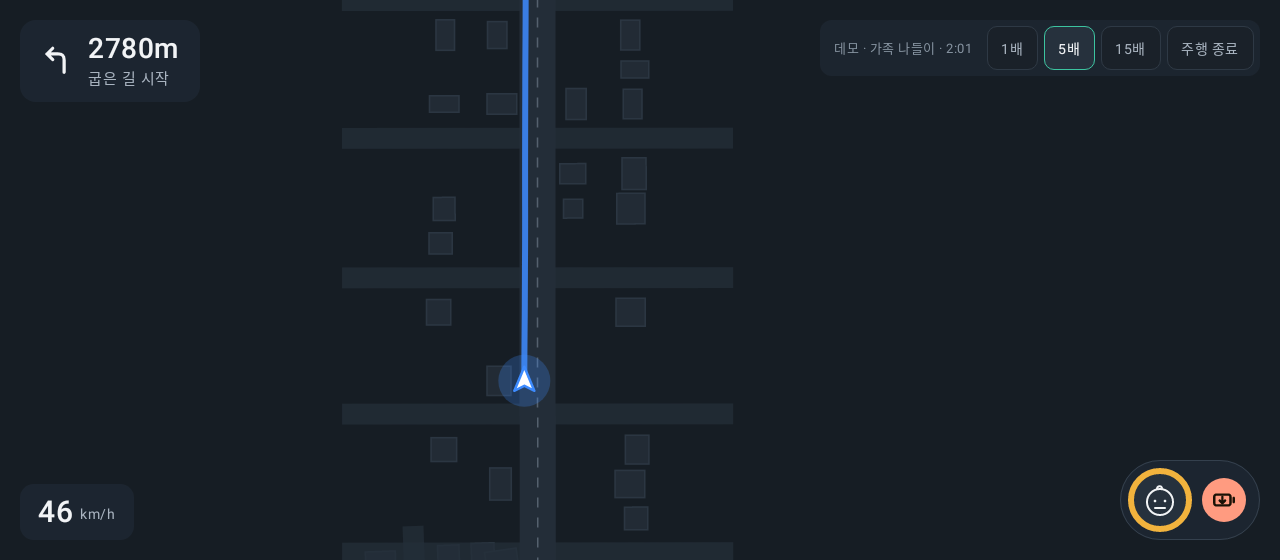
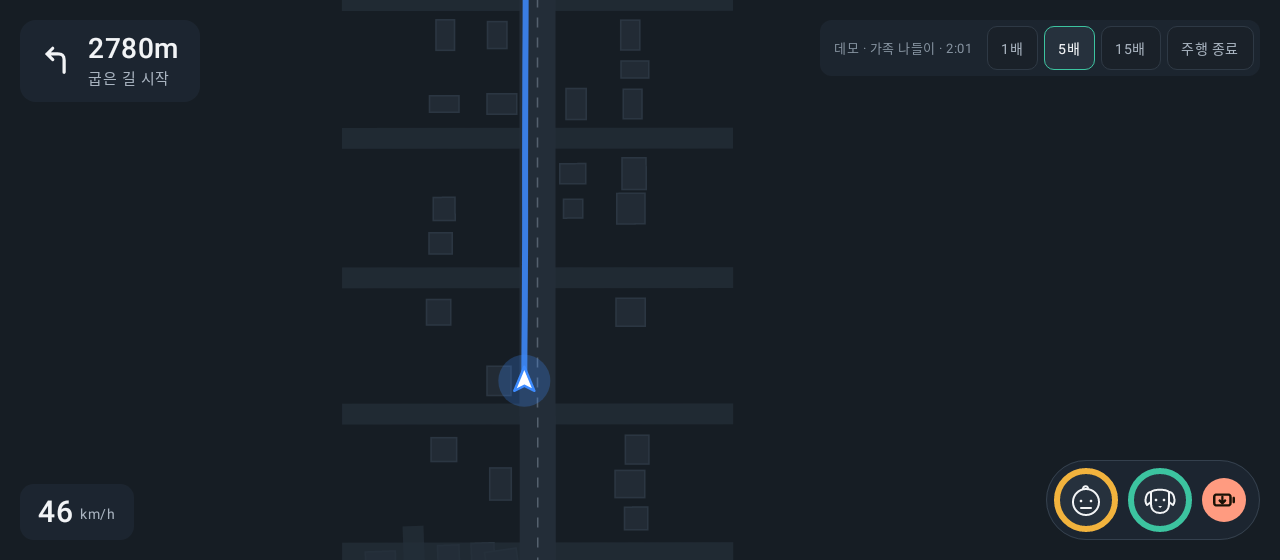
Show every passenger on the driving chip
- Chip lists all riders in selection order, each with its own level colour and face
- Badge, sound and stop card still follow the most uncomfortable rider
- Prototype does the same

Claude-Session: https://claude.ai/code/session_01BbDhi5dqPA6j65TagedgLk

Changed region(s): [[0.8125, 0.8196, 0.9375, 0.9714]]

diff --git a/docs/prototype/index.html b/docs/prototype/index.html
@@ -67,6 +67,9 @@ h1, h2, h3 { text-wrap: balance; }
 .chip.hidden { opacity: 0; transform: translateY(.6em); pointer-events: none; }
 .avatar { width: 4em; height: 4em; border-radius: 50%; border: .32em solid var(--caution); background: #26313D; display: flex; align-items: center; justify-content: center; transition: border-color .4s; }
 .avatar svg { width: 2.5em; height: 2.5em; }
+.avatars { display: flex; gap: .45em; }
+.avatars.many .avatar { width: 3.3em; height: 3.3em; border-width: .28em; }
+.avatars.many .avatar svg { width: 2.05em; height: 2.05em; }
 /* 예측 안내: 주행 중에는 움직이지 않도록 깜빡임 대신 파란 테두리 (Android for Cars SA-1) */
 .chip.pulse { box-shadow: 0 0 0 3px #3D8BFF; }
 .badge { width: 2.75em; height: 2.75em; border-radius: 50%; display: flex; align-items: center; justify-content: center; background: var(--moment); }
@@ -195,7 +198,7 @@ select { background: var(--surface); border: 1px solid var(--line); border-radiu
       <div class="speed"><b id="spd">0</b><span>km/h</span></div>
 
       <div class="chip hidden" id="chip" role="status" aria-live="polite">
-        <div class="avatar" id="avatar"></div>
+        <div class="avatars" id="avatars"></div>
         <div class="badge" id="badge"></div>
       </div>
 
@@ -223,7 +226,7 @@ select { background: var(--surface); border: 1px solid var(--line); border-radiu
         </div>
         <div class="people" id="people"></div>
         <div class="start-row">
-          <span id="selCount">2명 선택됨 · 가장 힘든 동승자 한 명만 운전 화면에 표시돼요</span>
+          <span id="selCount">2명 선택됨 · 운전 화면에 모두 표시돼요</span>
           <button type="button" class="go" id="goBtn">이대로 출발</button>
         </div>
       </div>
@@ -290,7 +293,7 @@ select { background: var(--surface); border: 1px solid var(--line); border-radiu
     <div class="panel">
       <h2>보는 법</h2>
       <ol class="how">
-        <li><b>출발 화면</b>에서 동승자를 고르고 '이대로 출발'을 누르세요. 여러 명이면 가장 힘든 한 명만 표시됩니다.</li>
+        <li><b>출발 화면</b>에서 동승자를 고르고 '이대로 출발'을 누르세요. 여러 명이면 모두의 얼굴이 각자 단계 색으로 표시됩니다.</li>
         <li><b>주행 중</b>에는 오른쪽 아래 아이콘과 원인 배지 1개만 뜹니다. 글자는 없고, 단계가 오를 때만 효과음이 1회 울립니다.</li>
         <li>게이지가 '주의' 이상인데 <b>다음 회전이 300m 안</b>이면, 내비 안내와 아이콘이 미리 강조됩니다(NaviHelper 예측).</li>
         <li><b>정차하면</b> 원인과 한 줄 코칭이 담긴 카드가 뜨고, Gleo가 읽어 줍니다. 정체는 운전자 탓으로 코칭하지 않습니다.</li>
@@ -378,7 +381,7 @@ select { background: var(--surface); border: 1px solid var(--line); border-radiu
   var dist = 0, lastIdx = -1, cardUntil = -1, feedbackNote = "";
   var merged = [];
 
-  /* 선택한 동승자들의 타임라인을 합쳐 '가장 힘든 한 명'을 고른다 (엔진의 대표 동승자 규칙과 동일). */
+  /* 선택한 동승자들의 타임라인을 합친다. 칩에는 전원을 보여주고, 원인 배지·정차 카드는 가장 힘든 한 명 기준(엔진 규칙과 동일). */
   function buildMerged() {
     var keys = TYPES.map(function (x) { return x.k; }).filter(function (k) { return selected[k]; });
     var runs = keys.map(function (k) { return { k: k, r: DATA.scenarios[scenario][k] }; });
@@ -397,7 +400,9 @@ select { background: var(--surface); border: 1px solid var(--line); border-radiu
         if (f[8] && x.k === best.k) cards.push({ msg: f[8], cause: f[9] });
       });
       var sound = runs.some(function (x) { return x.k === best.k && x.r.frames[i][6]; });
-      merged.push({ t: best.f[0], v: best.f[1], g: best.f[2], lv: best.f[3], b: best.f[4], stop: best.f[5], snd: sound, ev: Object.keys(evs), card: cards[0] || null, who: best.k });
+      var all = runs.map(function (x) { return { k: x.k, lv: x.r.frames[i][3] }; });
+      var worst = all.reduce(function (m, x) { return Math.max(m, x.lv); }, 0);
+      merged.push({ t: best.f[0], v: best.f[1], g: best.f[2], lv: worst, b: best.f[4], stop: best.f[5], snd: sound, ev: Object.keys(evs), card: cards[0] || null, who: best.k, all: all });
     }
     el("seek").max = String(n - 1);
     drawChart();
@@ -444,7 +449,7 @@ select { background: var(--surface); border: 1px solid var(--line); border-radiu
     });
     el("people").innerHTML = html;
     var n = Object.keys(selected).filter(function (k) { return selected[k]; }).length;
-    el("selCount").textContent = n ? n + "명 선택됨 · 가장 힘든 동승자 한 명만 운전 화면에 표시돼요" : "동승자를 한 명 이상 골라주세요";
+    el("selCount").textContent = n ? n + "명 선택됨 · 운전 화면에 모두 표시돼요" : "동승자를 한 명 이상 골라주세요";
     el("goBtn").disabled = n === 0;
   }
   el("people").addEventListener("click", function (e) {
@@ -512,9 +517,12 @@ select { background: var(--surface); border: 1px solid var(--line); border-radiu
     var chip = el("chip");
     chip.classList.toggle("hidden", f.lv === 0);
     chip.classList.toggle("pulse", pre);
-    var av = el("avatar");
-    av.style.borderColor = COLORS[f.lv];
-    av.innerHTML = face(f.who, f.lv);
+    /* 함께 탄 동승자 전원을 고른 순서대로 (자리 고정) */
+    var avs = el("avatars");
+    avs.classList.toggle("many", f.all.length > 2);
+    avs.innerHTML = f.all.map(function (x) {
+      return '<div class="avatar" style="border-color:' + COLORS[x.lv] + '">' + face(x.k, x.lv) + "</div>";
+    }).join("");
     if (f.b) {
       el("badge").style.display = "flex";
       el("badge").style.background = causeColor(f.b);
@@ -522,7 +530,7 @@ select { background: var(--surface); border: 1px solid var(--line); border-radiu
     } else {
       el("badge").style.display = "none";
     }
-    chip.setAttribute("aria-label", nameOf(f.who) + " " + ["편안", "주의", "힘듦"][f.lv] + (f.b ? ", " + CAUSES[f.b].label : ""));
+    chip.setAttribute("aria-label", f.all.map(function (x) { return nameOf(x.k) + " " + ["편안", "주의", "힘듦"][x.lv]; }).join(", ") + (f.b ? ", " + CAUSES[f.b].label : ""));
 
     if (fire) {
       f.ev.forEach(function (e) {

diff --git a/docs/prototype/template.html b/docs/prototype/template.html
@@ -67,6 +67,9 @@ h1, h2, h3 { text-wrap: balance; }
 .chip.hidden { opacity: 0; transform: translateY(.6em); pointer-events: none; }
 .avatar { width: 4em; height: 4em; border-radius: 50%; border: .32em solid var(--caution); background: #26313D; display: flex; align-items: center; justify-content: center; transition: border-color .4s; }
 .avatar svg { width: 2.5em; height: 2.5em; }
+.avatars { display: flex; gap: .45em; }
+.avatars.many .avatar { width: 3.3em; height: 3.3em; border-width: .28em; }
+.avatars.many .avatar svg { width: 2.05em; height: 2.05em; }
 /* 예측 안내: 주행 중에는 움직이지 않도록 깜빡임 대신 파란 테두리 (Android for Cars SA-1) */
 .chip.pulse { box-shadow: 0 0 0 3px #3D8BFF; }
 .badge { width: 2.75em; height: 2.75em; border-radius: 50%; display: flex; align-items: center; justify-content: center; background: var(--moment); }
@@ -195,7 +198,7 @@ select { background: var(--surface); border: 1px solid var(--line); border-radiu
       <div class="speed"><b id="spd">0</b><span>km/h</span></div>
 
       <div class="chip hidden" id="chip" role="status" aria-live="polite">
-        <div class="avatar" id="avatar"></div>
+        <div class="avatars" id="avatars"></div>
         <div class="badge" id="badge"></div>
       </div>
 
@@ -223,7 +226,7 @@ select { background: var(--surface); border: 1px solid var(--line); border-radiu
         </div>
         <div class="people" id="people"></div>
         <div class="start-row">
-          <span id="selCount">2명 선택됨 · 가장 힘든 동승자 한 명만 운전 화면에 표시돼요</span>
+          <span id="selCount">2명 선택됨 · 운전 화면에 모두 표시돼요</span>
           <button type="button" class="go" id="goBtn">이대로 출발</button>
         </div>
       </div>
@@ -290,7 +293,7 @@ select { background: var(--surface); border: 1px solid var(--line); border-radiu
     <div class="panel">
       <h2>보는 법</h2>
       <ol class="how">
-        <li><b>출발 화면</b>에서 동승자를 고르고 '이대로 출발'을 누르세요. 여러 명이면 가장 힘든 한 명만 표시됩니다.</li>
+        <li><b>출발 화면</b>에서 동승자를 고르고 '이대로 출발'을 누르세요. 여러 명이면 모두의 얼굴이 각자 단계 색으로 표시됩니다.</li>
         <li><b>주행 중</b>에는 오른쪽 아래 아이콘과 원인 배지 1개만 뜹니다. 글자는 없고, 단계가 오를 때만 효과음이 1회 울립니다.</li>
         <li>게이지가 '주의' 이상인데 <b>다음 회전이 300m 안</b>이면, 내비 안내와 아이콘이 미리 강조됩니다(NaviHelper 예측).</li>
         <li><b>정차하면</b> 원인과 한 줄 코칭이 담긴 카드가 뜨고, Gleo가 읽어 줍니다. 정체는 운전자 탓으로 코칭하지 않습니다.</li>
@@ -378,7 +381,7 @@ select { background: var(--surface); border: 1px solid var(--line); border-radiu
   var dist = 0, lastIdx = -1, cardUntil = -1, feedbackNote = "";
   var merged = [];
 
-  /* 선택한 동승자들의 타임라인을 합쳐 '가장 힘든 한 명'을 고른다 (엔진의 대표 동승자 규칙과 동일). */
+  /* 선택한 동승자들의 타임라인을 합친다. 칩에는 전원을 보여주고, 원인 배지·정차 카드는 가장 힘든 한 명 기준(엔진 규칙과 동일). */
   function buildMerged() {
     var keys = TYPES.map(function (x) { return x.k; }).filter(function (k) { return selected[k]; });
     var runs = keys.map(function (k) { return { k: k, r: DATA.scenarios[scenario][k] }; });
@@ -397,7 +400,9 @@ select { background: var(--surface); border: 1px solid var(--line); border-radiu
         if (f[8] && x.k === best.k) cards.push({ msg: f[8], cause: f[9] });
       });
       var sound = runs.some(function (x) { return x.k === best.k && x.r.frames[i][6]; });
-      merged.push({ t: best.f[0], v: best.f[1], g: best.f[2], lv: best.f[3], b: best.f[4], stop: best.f[5], snd: sound, ev: Object.keys(evs), card: cards[0] || null, who: best.k });
+      var all = runs.map(function (x) { return { k: x.k, lv: x.r.frames[i][3] }; });
+      var worst = all.reduce(function (m, x) { return Math.max(m, x.lv); }, 0);
+      merged.push({ t: best.f[0], v: best.f[1], g: best.f[2], lv: worst, b: best.f[4], stop: best.f[5], snd: sound, ev: Object.keys(evs), card: cards[0] || null, who: best.k, all: all });
     }
     el("seek").max = String(n - 1);
     drawChart();
@@ -444,7 +449,7 @@ select { background: var(--surface); border: 1px solid var(--line); border-radiu
     });
     el("people").innerHTML = html;
     var n = Object.keys(selected).filter(function (k) { return selected[k]; }).length;
-    el("selCount").textContent = n ? n + "명 선택됨 · 가장 힘든 동승자 한 명만 운전 화면에 표시돼요" : "동승자를 한 명 이상 골라주세요";
+    el("selCount").textContent = n ? n + "명 선택됨 · 운전 화면에 모두 표시돼요" : "동승자를 한 명 이상 골라주세요";
     el("goBtn").disabled = n === 0;
   }
   el("people").addEventListener("click", function (e) {
@@ -512,9 +517,12 @@ select { background: var(--surface); border: 1px solid var(--line); border-radiu
     var chip = el("chip");
     chip.classList.toggle("hidden", f.lv === 0);
     chip.classList.toggle("pulse", pre);
-    var av = el("avatar");
-    av.style.borderColor = COLORS[f.lv];
-    av.innerHTML = face(f.who, f.lv);
+    /* 함께 탄 동승자 전원을 고른 순서대로 (자리 고정) */
+    var avs = el("avatars");
+    avs.classList.toggle("many", f.all.length > 2);
+    avs.innerHTML = f.all.map(function (x) {
+      return '<div class="avatar" style="border-color:' + COLORS[x.lv] + '">' + face(x.k, x.lv) + "</div>";
+    }).join("");
     if (f.b) {
       el("badge").style.display = "flex";
       el("badge").style.background = causeColor(f.b);
@@ -522,7 +530,7 @@ select { background: var(--surface); border: 1px solid var(--line); border-radiu
     } else {
       el("badge").style.display = "none";
     }
-    chip.setAttribute("aria-label", nameOf(f.who) + " " + ["편안", "주의", "힘듦"][f.lv] + (f.b ? ", " + CAUSES[f.b].label : ""));
+    chip.setAttribute("aria-label", f.all.map(function (x) { return nameOf(x.k) + " " + ["편안", "주의", "힘듦"][x.lv]; }).join(", ") + (f.b ? ", " + CAUSES[f.b].label : ""));
 
     if (fire) {
       f.ev.forEach(function (e) {

diff --git a/app/src/main/kotlin/team/datayou/app/ui/DriveScreen.kt b/app/src/main/kotlin/team/datayou/app/ui/DriveScreen.kt
@@ -106,17 +106,18 @@ fun DriveScreen(s: Screen.Driving, vm: DataYouActions) {
             Text("km/h", color = Palette.muted, fontSize = 14.sp, modifier = Modifier.padding(bottom = 4.dp))
         }
 
-        // 다 타유 칩: 주행 중 유일한 표시. 편안하면 숨김.
+        // 다 타유 칩: 주행 중 유일한 표시. 함께 탄 동승자 전원을 한 줄로 보여주고, 모두 편안하면 숨김.
         val focus = s.focus
+        val riders = s.riders.ifEmpty { listOfNotNull(focus) }
         // 편안 단계에서도 반응 직후나 부드러운 주행(휴식 표정) 중에는 보인다
         AnimatedVisibility(
-            visible = focus != null && (focus.level != GaugeLevel.COMFORT || s.reactionShowing || s.resting),
+            visible = focus != null && (riders.any { it.level != GaugeLevel.COMFORT } || s.reactionShowing || s.resting),
             modifier = Modifier.align(Alignment.BottomEnd).padding(20.dp),
             enter = fadeIn() + slideInVertically { it / 3 },
             exit = fadeOut(),
         ) {
             if (focus != null) DataYouChip(
-                focus.profile.type, focus.level,
+                riders.map { it.profile.type to it.level },
                 badge = if (focus.level != GaugeLevel.COMFORT) s.badge else null,
                 highlight = s.preAlert,
                 holding = if (s.reactionShowing) s.reaction?.kind else null,
@@ -150,8 +151,7 @@ fun DriveScreen(s: Screen.Driving, vm: DataYouActions) {
 
 @Composable
 private fun DataYouChip(
-    type: team.datayou.engine.model.PassengerType,
-    level: GaugeLevel,
+    riders: List<Pair<team.datayou.engine.model.PassengerType, GaugeLevel>>,
     badge: team.datayou.engine.model.Cause?,
     highlight: Boolean,
     holding: team.datayou.engine.model.ReactionKind? = null,
@@ -163,11 +163,13 @@ private fun DataYouChip(
     val motion = team.datayou.app.ui.anim.LocalReactionMotion.current
     val renderer = team.datayou.app.ui.anim.LocalCharacterRenderer.current
     val pose = holding?.let { motion.holdPose(it) } ?: team.datayou.app.ui.anim.MotionPose()
-    val mood = when {
+    fun moodOf(level: GaugeLevel) = when {
         holding != null -> motion.mood(holding)
         resting && level == GaugeLevel.COMFORT -> FaceMood.RESTING
         else -> FaceMood.NORMAL
     }
+    // 여러 명이면 조금 작게. 순서는 고른 순서로 고정해 자리가 바뀌지 않게 한다.
+    val size = if (riders.size <= 2) 64.dp else 52.dp
     val edge = if (highlight) Palette.link else Color(0xFF34404D)
 
     Row(
@@ -177,13 +179,16 @@ private fun DataYouChip(
             .padding(start = 8.dp, end = 14.dp, top = 8.dp, bottom = 8.dp)
             .semantics {
                 liveRegion = LiveRegionMode.Polite
-                contentDescription = "${type.label} ${level.label()}" + (badge?.let { ", ${it.label}" } ?: "") +
-                    (if (mood == FaceMood.RESTING) ", 편안히 쉬는 중" else "") + (if (highlight) ", 곧 회전" else "")
+                contentDescription = riders.joinToString(", ") { (t, l) -> "${t.label} ${l.label()}" } +
+                    (badge?.let { ", ${it.label}" } ?: "") +
+                    (if (resting && holding == null) ", 편안히 쉬는 중" else "") + (if (highlight) ", 곧 회전" else "")
             },
         verticalAlignment = Alignment.CenterVertically,
         horizontalArrangement = Arrangement.spacedBy(10.dp),
     ) {
-        Box(Modifier.poseLayer(pose)) { renderer(type, level, mood, 64.dp, Modifier) }
+        riders.forEach { (type, level) ->
+            Box(Modifier.poseLayer(pose)) { renderer(type, level, moodOf(level), size, Modifier) }
+        }
         badge?.let { CauseBadge(it, 44.dp) }
     }
 }

diff --git a/docs/overview/index.html b/docs/overview/index.html
@@ -164,7 +164,7 @@ ul.tight li{margin-bottom:6px}
       <div class="panel">
         <h3>세 가지 순간에 다르게 말합니다</h3>
         <ul class="tight">
-          <li><b>주행 중</b> · 동승자 얼굴 + 원인 배지 1개. 몸이 쏠리면 캐릭터가 그 방향으로 쏠린 자세로 바뀜. 글자·움직임 없음, 단계가 오를 때만 효과음</li>
+          <li><b>주행 중</b> · 함께 탄 동승자 전원의 얼굴 + 원인 배지 1개. 몸이 쏠리면 캐릭터가 그 방향으로 쏠린 자세로 바뀜. 글자·움직임 없음, 단계가 오를 때만 효과음</li>
           <li><b>정차 시</b> · 원인과 개선 팁 카드, 음성 안내, "속 안 좋아요" 피드백</li>
           <li><b>하차 후</b> · 원인별 기여 비율과 다음 주행 팁 하나</li>
         </ul>
@@ -288,7 +288,7 @@ ul.tight li{margin-bottom:6px}
       <tr><td data-l="규칙">30초 유지</td><td data-l="내용">배지는 최소 30초 그대로</td><td data-l="왜">깜빡임은 시선을 끔</td></tr>
       <tr><td data-l="규칙">텍스트 없음</td><td data-l="내용">아이콘 뜻은 정차 카드에서 익힘</td><td data-l="왜">주행 중 읽기 금지</td></tr>
       <tr><td data-l="규칙">효과음</td><td data-l="내용">게이지 단계가 오를 때만 1회</td><td data-l="왜">반복 알림은 무시됨</td></tr>
-      <tr><td data-l="규칙">대표 동승자</td><td data-l="내용">여럿이면 가장 힘든 한 명만</td><td data-l="왜">정보량 최소화</td></tr>
+      <tr><td data-l="규칙">대표 동승자</td><td data-l="내용">여럿이면 전원의 얼굴을 각자 단계 색으로, 배지는 가장 힘든 한 명 기준</td><td data-l="왜">누가 힘든지 한눈에, 정보량은 아이콘으로만</td></tr>
       <tr><td data-l="규칙">예측 안내</td><td data-l="내용">'주의' 이상 + 회전 300m 전이면 칩 테두리를 파랗게 강조 (움직임 없음)</td><td data-l="왜">미리 감속 유도</td></tr>
       <tr><td data-l="규칙">정차 카드</td><td data-l="내용">멈추면 표시, 출발하면 닫힘, 90초 간격</td><td data-l="왜">같은 말 반복 방지</td></tr>
     </tbody>
@@ -513,7 +513,7 @@ const STEPS = [
   ['게이지 누적', '동승자마다: 대역 파워 × 0.18 × 민감도를 더하고, 조용하면 초당 0.17씩 회복. 0~100, 40 주의 / 70 힘듦.'],
   ['원인 판별', '순간 이벤트는 기준값을 0.3초 넘으면(동승자별 배율), 반복 패턴은 창 안 횟수로. 브레이크·깜빡이 값으로 급제동/회생, 차선 변경/회전을 가릅니다.'],
   ['기여도', '게이지를 올린 양을 원인별 장부에 적고 60초 시간 가중으로 줄여 갑니다. 앞뒤 흔들림은 정체 → 끊어 밟기 → 최근 30초 순간 원인 순으로 탓을 돌립니다.'],
-  ['표시 규칙', '가장 힘든 동승자 한 명, 기여도 1위 원인 배지(30초 유지, 1.2배 넘어야 교체), 단계가 오를 때만 효과음, 회전 300m 전 예측 안내.'],
+  ['표시 규칙', '동승자 전원의 얼굴(각자 단계 색), 가장 힘든 한 명 기준 기여도 1위 원인 배지(30초 유지, 1.2배 넘어야 교체), 단계가 오를 때만 효과음, 회전 300m 전 예측 안내.'],
   ['정차 · 하차', '2초 넘게 멈추면 정차 카드와 음성(90초 간격). 주행이 끝나면 원인별 리포트와 다음 주행 팁 하나.'],
 ];
 const pipe = document.getElementById('pipe');

diff --git a/app/src/main/kotlin/team/datayou/app/DataYouViewModel.kt b/app/src/main/kotlin/team/datayou/app/DataYouViewModel.kt
@@ -73,6 +73,8 @@ sealed interface Screen {
         val stopCardReplay: team.datayou.engine.model.ReactionKind? = null,
         /** 동승자 팝업 표시 여부 (출발 전에만, 움직이면 자동으로 닫힘) */
         val passengerPanel: Boolean = false,
+        /** 함께 탄 동승자 전원의 현재 상태 (칩에 모두 표시) */
+        val riders: List<PassengerState> = emptyList(),
         /** 고른 동승자. 비어 있으면 일반 동승자 기준 */
         val passengers: Set<PassengerType> = emptySet(),
     ) : Screen
@@ -114,7 +116,7 @@ class DataYouViewModel(app: Application) : AndroidViewModel(app), DataYouActions
         store.save(next)
         // 출발 전(정차)이라 엔진 상태가 거의 없으므로 새 동승자로 다시 만든다
         engine = buildEngine(next)
-        _screen.update { s -> if (s is Screen.Driving) s.copy(passengers = next, focus = null) else s }
+        _screen.update { s -> if (s is Screen.Driving) s.copy(passengers = next, focus = null, riders = emptyList()) else s }
     }
 
     override fun closePassengerPanel() {
@@ -269,6 +271,7 @@ class DataYouViewModel(app: Application) : AndroidViewModel(app), DataYouActions
             s.copy(
                 passengerPanel = s.passengerPanel && !leaving,
                 focus = u.focusPassenger,
+                riders = u.passengers,
                 badge = u.badge,
                 speedKmh = Math.round(u.speedMps * 3.6).toInt(),
                 stopped = u.vehicleStopped,

diff --git a/app/src/test/kotlin/team/datayou/app/ScreenshotTest.kt b/app/src/test/kotlin/team/datayou/app/ScreenshotTest.kt
@@ -60,6 +60,7 @@ class ScreenshotTest {
         return Screen.Driving(
             sourceLabel = "가족 나들이",
             focus = u.focusPassenger,
+            riders = u.passengers,
             badge = u.badge,
             speedKmh = Math.round(u.speedMps * 3.6).toInt(),
             stopped = u.vehicleStopped,

diff --git a/README.md b/README.md
@@ -21,7 +21,7 @@
 
 | 순간 | 보여주는 것 | 원칙 |
 |---|---|---|
-| 주행 중 | 가장 힘든 동승자의 얼굴 + 원인 배지 1개. 몸이 쏠리면 캐릭터가 그 방향으로 쏠린 자세로 바뀜, 부드럽게 달리면 편안히 쉬는 표정 | 글자 없음, **움직이는 요소 없음**, 배지 30초 유지, 단계가 오를 때만 효과음 |
+| 주행 중 | 함께 탄 동승자 전원의 얼굴(각자 단계 색) + 원인 배지 1개. 몸이 쏠리면 캐릭터가 그 방향으로 쏠린 자세로 바뀜, 부드럽게 달리면 편안히 쉬는 표정 | 글자 없음, **움직이는 요소 없음**, 배지 30초 유지, 단계가 오를 때만 효과음 |
 | 정차 시 | 원인과 개선 팁 카드("방금 이렇게 쏠렸어요" 동작 재생), 음성 안내, "괜찮아요 / 속 안 좋아요" | 운전 중 읽게 하지 않음 |
 | 하차 후 | 원인별 기여 비율, 10km당 이벤트, 다음 주행 팁 하나 | 정체처럼 고칠 수 없는 건 탓하지 않음 |
 
